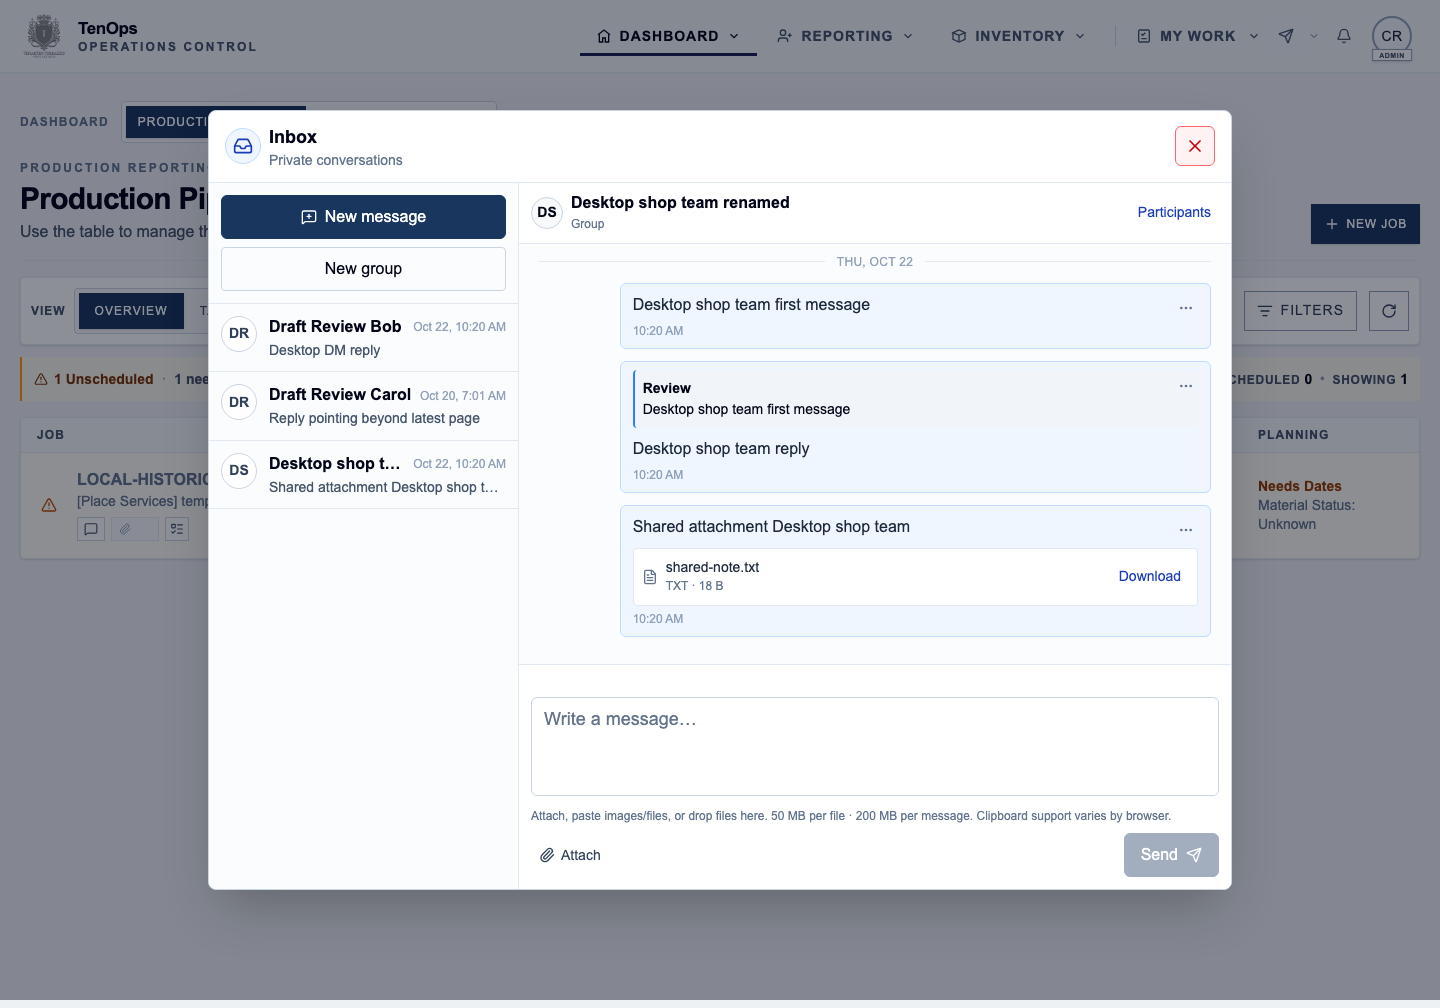
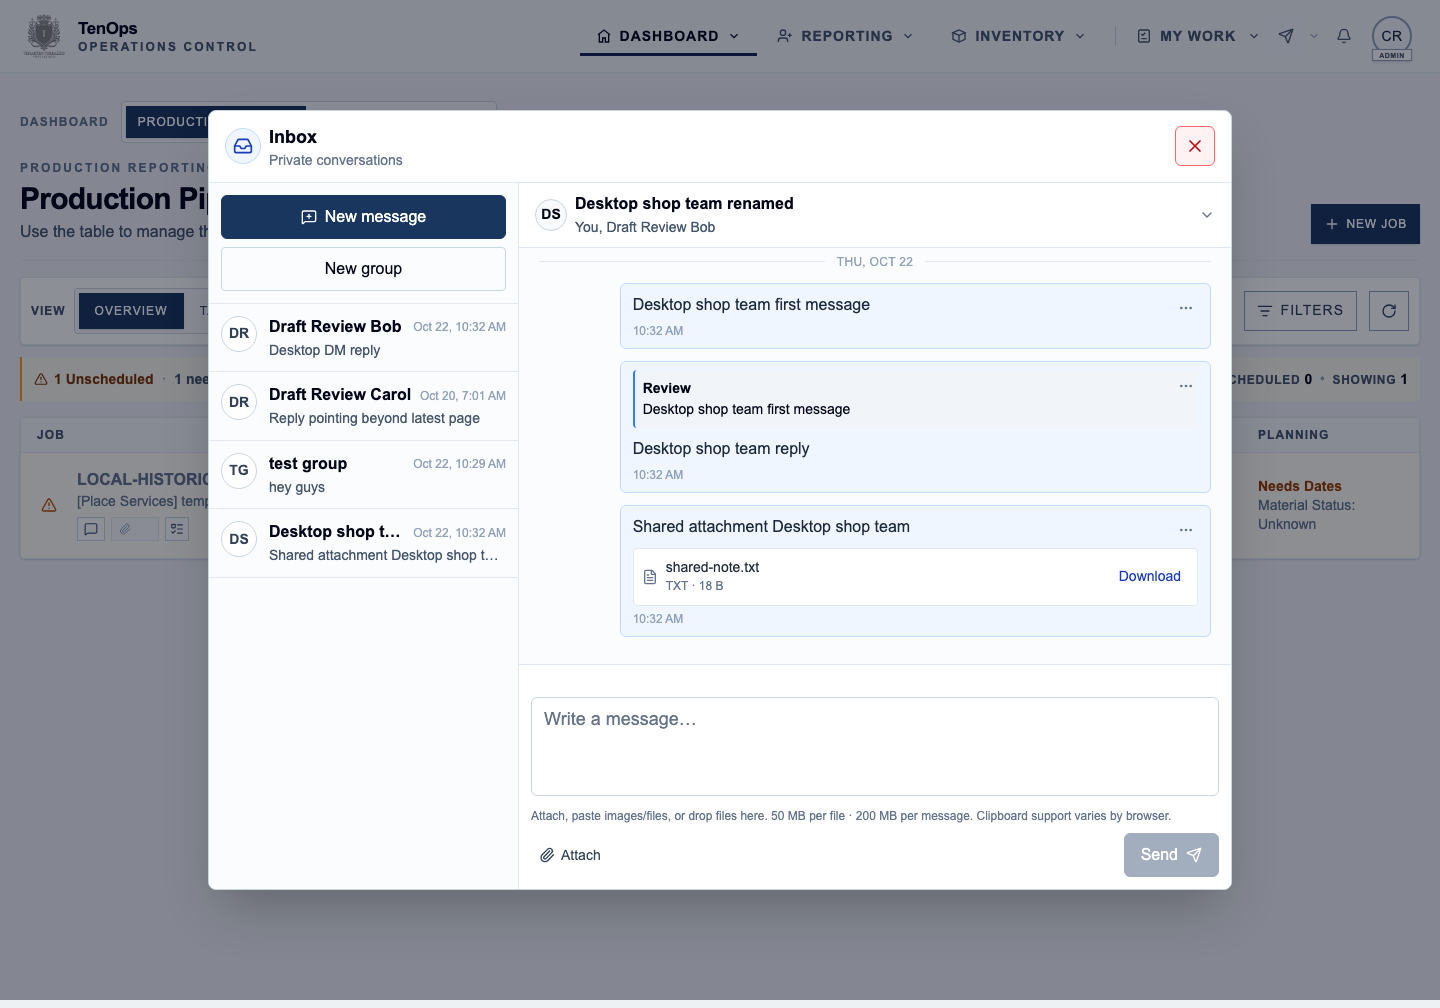
polish(messaging): show participants in clickable group header [CF-Pages-Skip] [CI Skip]

diff --git a/src/modules/my-work/InboxDialog.tsx b/src/modules/my-work/InboxDialog.tsx
@@ -1,6 +1,6 @@
 "use client";
 
-import { ArrowLeft, BriefcaseBusiness, FileText, Inbox, MessageSquarePlus, MoreHorizontal, Paperclip, Send, Sparkles, Trash2, X } from "lucide-react";
+import { ArrowLeft, ChevronDown, BriefcaseBusiness, FileText, Inbox, MessageSquarePlus, MoreHorizontal, Paperclip, Send, Sparkles, Trash2, X } from "lucide-react";
 import { useCallback, useEffect, useMemo, useRef, useState, useSyncExternalStore } from "react";
 import { createPortal } from "react-dom";
 import AttachmentImageViewer from "./messaging/AttachmentImageViewer";
@@ -71,6 +71,9 @@ export default function InboxDialog({awareness,open,onClose,currentUserId,collab
   useEffect(()=>()=>clearTimeout(summaryTimer.current),[]);
   const conversations=useMemo(()=>summaries.map(item=>({...item,isSystem:isTenOpsSystemInboxUser(item.userId)})),[summaries]);
   const summary=conversations.find(item=>item.userId===selectedUserId);
+  const participantNames=(summary?.memberIds??[]).map(id=>id===currentUserId?"You":collaborators.find(user=>user.userId===id)?.displayName??"Unavailable participant");
+  const visibleParticipantNames=participantNames.length>4?participantNames.slice(0,3):participantNames;
+  const hiddenParticipantCount=participantNames.length-visibleParticipantNames.length;
   const selected=selectedUserId?{userId:selectedUserId,name:summary?.name??collaborators.find(user=>user.userId===selectedUserId)?.displayName??"Conversation",role:summary?.role??"",isSystem:isTenOpsSystemInboxUser(selectedUserId),messages}:undefined;
   const typingPeerId=open&&selectedUserId&&!summary?.groupId&&!isTenOpsSystemInboxUser(selectedUserId)?selectedUserId:"";
   const resetComposer=useCallback(()=>{setReplyTo(null);clearAttachments();},[clearAttachments]);
@@ -140,7 +143,7 @@ export default function InboxDialog({awareness,open,onClose,currentUserId,collab
         <aside className={`${showConversation?"hidden md:flex":"flex"} min-h-0 min-w-0 flex-col border-r border-slate-200 bg-slate-50/60`}><div className="shrink-0 border-b border-slate-200 p-3"><button type="button" disabled={!canWrite||transferBlocked} onClick={()=>{setNewMessage(true);setSelectedUserId("");setRecipientId("");resetComposer();}} className="tenops-selected-surface flex h-11 w-full min-w-0 items-center justify-center gap-2 rounded-md border px-3 text-sm font-semibold"><MessageSquarePlus className="h-4 w-4 shrink-0" /><span>New message</span></button><button type="button" disabled={!canWrite||transferBlocked} onClick={()=>openGroupEditor()} className="mt-2 min-h-11 w-full rounded border border-slate-300 text-sm font-semibold">New group</button></div><div className="min-h-0 min-w-0 flex-1 overflow-y-auto">{loading&&!conversations.length?<p className="px-5 py-8 text-center text-sm text-slate-500">Loading conversations…</p>:conversations.length?conversations.map((conversation)=><button key={conversation.userId} type="button" onPointerEnter={()=>{if(!conversation.groupId)prefetch(conversation.userId);}} onPointerLeave={cancelPrefetch} onFocus={()=>{if(!conversation.groupId)prefetch(conversation.userId);}} onBlur={cancelPrefetch} onClick={()=>chooseConversation(conversation.userId)} className="flex w-full min-w-0 gap-3 border-b border-slate-200 px-3 py-3 text-left hover:bg-white"><span className={`flex h-9 w-9 shrink-0 items-center justify-center rounded-full border text-xs font-bold ${conversation.isSystem?"tenops-selected-surface":"border-slate-300 bg-white text-slate-700"}`}>{conversation.isSystem?<Sparkles className="h-4 w-4" />:initials(conversation.name)}</span><span className="min-w-0 flex-1"><span className="flex min-w-0 items-center justify-between gap-2"><strong className="min-w-0 truncate text-sm text-slate-950">{conversation.name}</strong><time className="shrink-0 text-[10px] text-slate-400">{conversationTime(conversation.latest.createdAt)}</time></span><span className="mt-0.5 flex items-center gap-2"><span className="min-w-0 flex-1 truncate text-xs text-slate-600">{conversation.latest.body}</span>{conversation.unread?<span className="inline-flex min-w-5 items-center justify-center rounded-full bg-red-600 px-1.5 text-[10px] font-bold text-white">{conversation.unread>9?"9+":conversation.unread}</span>:null}</span></span></button>):<p className="px-5 py-10 text-center text-sm text-slate-500">No conversations yet.<span className="mt-1 block">Start with New message.</span></p>}</div></aside>
         <div className={`${showConversation?"flex":"hidden md:flex"} min-h-0 min-w-0 flex-col overflow-y-auto`}>
           {!showConversation?<div className="m-auto max-w-sm px-6 text-center text-slate-500"><Inbox className="mx-auto h-8 w-8" /><p className="mt-3 text-sm">Select a recipient to start a conversation.</p></div>:<>
-            <div className="flex shrink-0 items-center gap-2 border-b border-slate-200 px-3 py-2"><button type="button" disabled={transferBlocked} onClick={()=>{setSelectedUserId("");setNewMessage(false);resetComposer();}} className="flex h-11 w-11 items-center justify-center md:hidden" aria-label="Back to conversations"><ArrowLeft className="h-5 w-5" /></button>{!newMessage&&selected?<span className={`flex h-8 w-8 shrink-0 items-center justify-center rounded-full border text-[11px] font-bold ${selected.isSystem?"tenops-selected-surface":"border-slate-300 bg-slate-50"}`}>{selected.isSystem?<Sparkles className="h-4 w-4" />:initials(selected.name)}</span>:null}<div className="min-w-0 flex-1"><strong className="block truncate text-sm text-slate-950">{newMessage?"New message":selected?.name}</strong>{!newMessage?<span role="status" className="block min-h-4 text-[10px] text-slate-500">{loading?(messages.length?"Updating conversation…":"Loading recent messages…"):selected?.role}</span>:null}</div>{summary?.groupId?<button type="button" onClick={()=>openGroupEditor(true)} className="min-h-11 px-2 text-xs text-blue-800">Participants</button>:null}</div>
+            <div className="flex shrink-0 items-center gap-2 border-b border-slate-200 px-3 py-2"><button type="button" disabled={transferBlocked} onClick={()=>{setSelectedUserId("");setNewMessage(false);resetComposer();}} className="flex h-11 w-11 items-center justify-center md:hidden" aria-label="Back to conversations"><ArrowLeft className="h-5 w-5" /></button>{!newMessage&&summary?.groupId?<button type="button" onClick={()=>openGroupEditor(true)} aria-label="View group participants" aria-haspopup="dialog" title={participantNames.join(", ")} className="flex min-h-12 min-w-0 flex-1 items-center gap-2 rounded px-1 text-left hover:bg-slate-100 focus-visible:outline-none focus-visible:ring-2 focus-visible:ring-blue-600"><span aria-hidden="true" className="flex h-8 w-8 shrink-0 items-center justify-center rounded-full border border-slate-300 bg-slate-50 text-[11px] font-bold">{initials(summary.name)}</span><span className="min-w-0 flex-1"><strong className="block truncate text-sm text-slate-950">{summary.name}</strong><span data-group-header-participants className="mt-0.5 flex min-w-0 items-center gap-1 text-xs text-slate-600"><span className="min-w-0 truncate">{visibleParticipantNames.join(", ")}</span>{hiddenParticipantCount?<span className="shrink-0">+{hiddenParticipantCount} more</span>:null}</span></span><ChevronDown aria-hidden="true" className="h-4 w-4 shrink-0 text-slate-500"/><span role="status" className="sr-only">{loading?"Updating conversation…":""}</span></button>:<>{!newMessage&&selected?<span className={`flex h-8 w-8 shrink-0 items-center justify-center rounded-full border text-[11px] font-bold ${selected.isSystem?"tenops-selected-surface":"border-slate-300 bg-slate-50"}`}>{selected.isSystem?<Sparkles className="h-4 w-4" />:initials(selected.name)}</span>:null}<div className="min-w-0 flex-1"><strong className="block truncate text-sm text-slate-950">{newMessage?"New message":selected?.name}</strong>{!newMessage?<span role="status" className="block min-h-4 text-[10px] text-slate-500">{loading?(messages.length?"Updating conversation…":"Loading recent messages…"):selected?.role}</span>:null}</div></>}</div>
             {newMessage?<div className="shrink-0 border-b border-slate-200 p-3"><label className="text-xs font-medium text-slate-600">To<select disabled={!canWrite||transferBlocked} value={recipientId} onChange={(event)=>setRecipientId(event.target.value)} className="mt-1 h-11 w-full rounded-md border border-slate-300 bg-white px-3 text-sm"><option value="">Choose a TenOps user</option>{collaborators.map((user)=><option key={user.userId} value={user.userId}>{user.displayName}</option>)}</select></label>{!recipientId?<p className="mt-2 text-xs text-slate-500">Select a recipient to start a conversation.</p>:null}</div>:null}
             <div ref={historyRef} data-message-history onScroll={event=>{const el=event.currentTarget;nearBottomRef.current=el.scrollHeight-el.scrollTop-el.clientHeight<100;if(el.scrollTop<80)void loadOlder();}} className={`${selected?.messages.length?"min-h-0 flex-1 overflow-y-auto py-4":"shrink-0 py-1"} overscroll-contain bg-slate-50/60 px-3 sm:px-5`}>{hasOlder?<button type="button" disabled={loading} onClick={()=>void loadOlder()} className="mx-auto block min-h-10 px-3 text-xs text-blue-800">{loading?"Loading…":"Older messages"}</button>:null}{selected?.messages.map((message,index)=>{
               const sent=message.senderUserId===currentUserId;const showDay=index===0||dayKey(selected.messages[index-1].createdAt)!==dayKey(message.createdAt);const isSystem=isTenOpsSystemInboxUser(message.senderUserId);const canEdit=canWrite&&sent&&!isSystem;const canDelete=auth.profile?.role==="admin"&&!isSystem;const editing=editingMessageId===message.id;

diff --git a/docs/project-memory/2026-10-22-messaging-groups-replies-candidate.md b/docs/project-memory/2026-10-22-messaging-groups-replies-candidate.md
@@ -51,3 +51,9 @@ Review URL: **http://localhost:3000**. `node scripts/start-messaging-groups-revi
 The obsolete Contacts review static server on port 3000 was identified by PID, command and checkout before being stopped. Only this existing dev checkout serves the candidate. Original unrelated `.worktrees/` and Contacts cleanup evidence remain untouched.
 
 Requested next step: Product acceptance of the local candidate. No permission to push, promote main, apply hosted migrations, deploy or send live notifications is implied.
+
+## Group-header refinement — 2026-10-22
+
+Group headers now show participant names directly beneath the group name, using “You” for the current user and existing collaborator display names for others. Groups of up to four show all names in one truncating line; larger groups show the first three with a fixed `+N more` count. The full list remains available in the header tooltip and participant details. The entire group header is a keyboard-accessible button opening the existing details/management dialog; the separate Participants link is removed. DM headers, membership contracts and creator-only permissions are unchanged.
+
+Tier 1 / Testing Level 1: production build, TypeScript, targeted ESLint and diff check passed. The localhost browser verifier passed at desktop 1440px and mobile 390px, including visible small-group names, large-group truncation without viewport overflow, keyboard activation, creator editing and noncreator read-only details. The adjacent DM/group messaging regression scenario also passed. Updated small-group screenshots are linked above; see [desktop large group](evidence/2026-10-22-messaging-groups-replies/desktop-large-group.png) and [mobile large group](evidence/2026-10-22-messaging-groups-replies/mobile-large-group.png). No migration/backend change or deployment.
